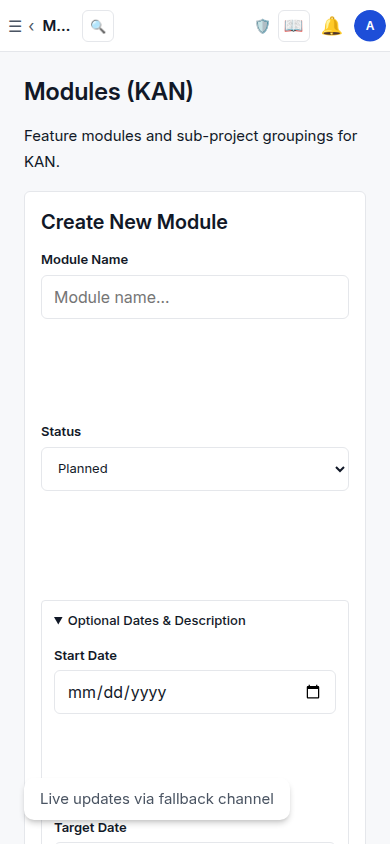
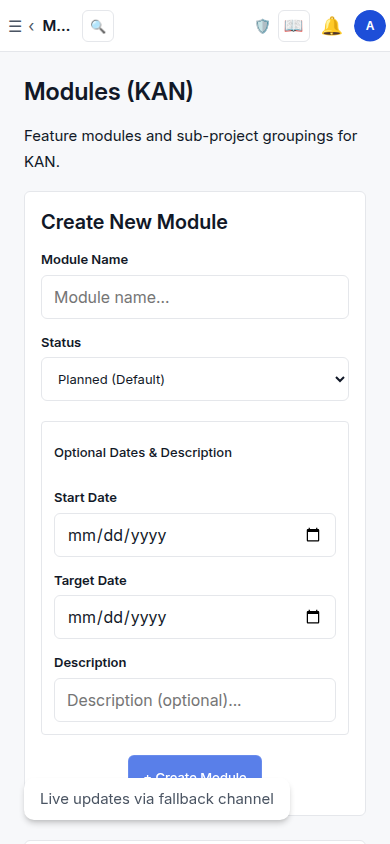
fix(routes): remediate KAN-464 mobile layout and KAN-471 doc link / popover tests

diff --git a/kanban/web/src/app/routes.test.tsx b/kanban/web/src/app/routes.test.tsx
@@ -1177,6 +1177,22 @@ describe('IssuesWorkspaceRoute', () => {
       expect(document.querySelectorAll('label button.field-help-hint').length).toBe(0);
     });
 
+    const draftsHintBtn = screen.getByRole('button', { name: /Local Browser Drafts/i });
+    act(() => {
+      draftsHintBtn.focus();
+    });
+    const popover = screen.getByRole('dialog', { name: 'Local Browser Drafts' });
+    expect(popover).toBeDefined();
+    expect(popover.textContent).toContain('Saved locally');
+    const moreInfoLink = popover.querySelector('a[href="/docs/ticket-screen-and-work-item-features"]');
+    expect(moreInfoLink).not.toBeNull();
+    expect(moreInfoLink?.textContent).toContain('More info');
+
+    act(() => {
+      fireEvent.keyDown(draftsHintBtn, { key: 'Escape' });
+    });
+    expect(screen.queryByRole('dialog', { name: 'Local Browser Drafts' })).toBeNull();
+
     uDrafts();
   });
 

diff --git a/kanban/web/src/app/AppShell.css b/kanban/web/src/app/AppShell.css
@@ -133,6 +133,23 @@
   }
 }
 
+@media (max-width: 767px), (pointer: coarse) {
+  .kb-modules-advanced-fields summary {
+    display: flex;
+    align-items: center;
+    min-height: var(--tap-min, 44px);
+  }
+
+  .kb-modules-create-form .kb-btn-primary {
+    min-height: var(--tap-min, 44px);
+    height: auto;
+  }
+
+  .kb-modules-create-form .kb-form-input {
+    min-height: var(--tap-min, 44px);
+  }
+}
+
 /* Workspace Home & Section Views */
 .kb-workspace-home {
   display: flex;
@@ -713,6 +730,7 @@
     align-items: stretch;
   }
   .kb-form-field {
+    flex: 0 0 auto;
     width: 100%;
   }
   .kb-form-input {

diff --git a/kanban/web/src/app/routes.tsx b/kanban/web/src/app/routes.tsx
@@ -640,7 +640,8 @@ export function DraftsWorkspaceView(): JSX.Element {
             title="Local Browser Drafts"
             summary="Work item drafts are stored locally in your browser so you can safely recover in-progress items across sessions or offline before publishing."
             defaultValue="Saved locally"
-            docHref="/docs/scripted-workflows-and-transition-helpers"
+            docHref="/docs/ticket-screen-and-work-item-features"
+            testId="drafts-help-hint"
           />
         </div>
         <p>Work item drafts saved before publishing to a project.</p>
